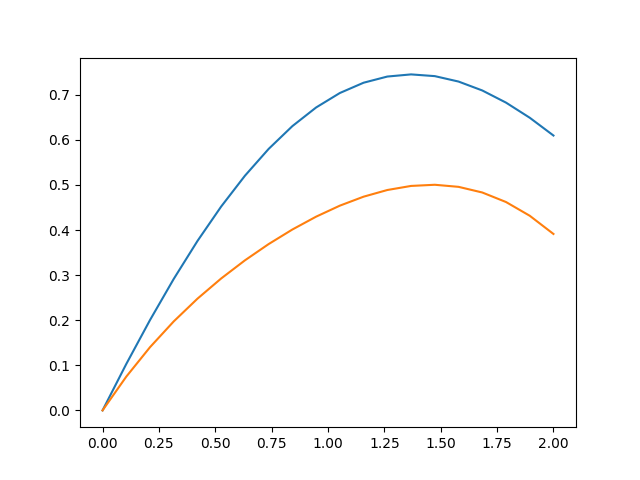
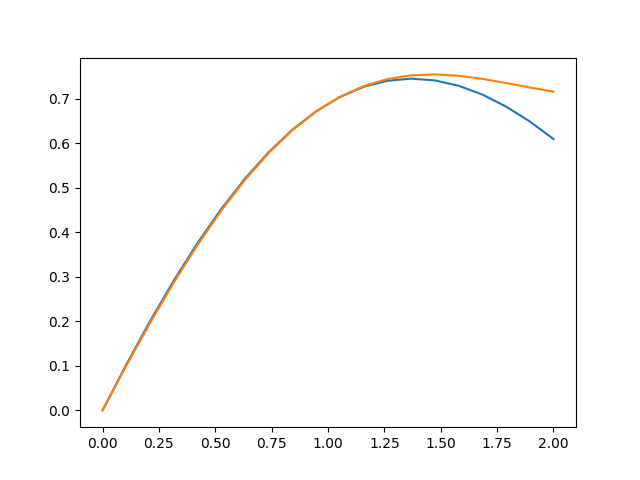
fix boundary value

diff --git a/second_order_differential_equation_boundary_value.py b/second_order_differential_equation_boundary_value.py
@@ -1,6 +1,6 @@
 """
 Solution of ODE second order for boundary value
-Error: 0.003685685168718363
+Error: 0.10022156304162144
 """
 import autograd.numpy as np
 from autograd import grad
@@ -10,7 +10,7 @@ from matplotlib import pyplot as plt
 a = 0
 b = 1
 A = 0.
-B = np.exp(-1. / 5.) * np.cos(1.)
+B = np.exp(-1. / 5.) * np.sin(1.)
 nx = 20
 dx = 1. / nx
 
